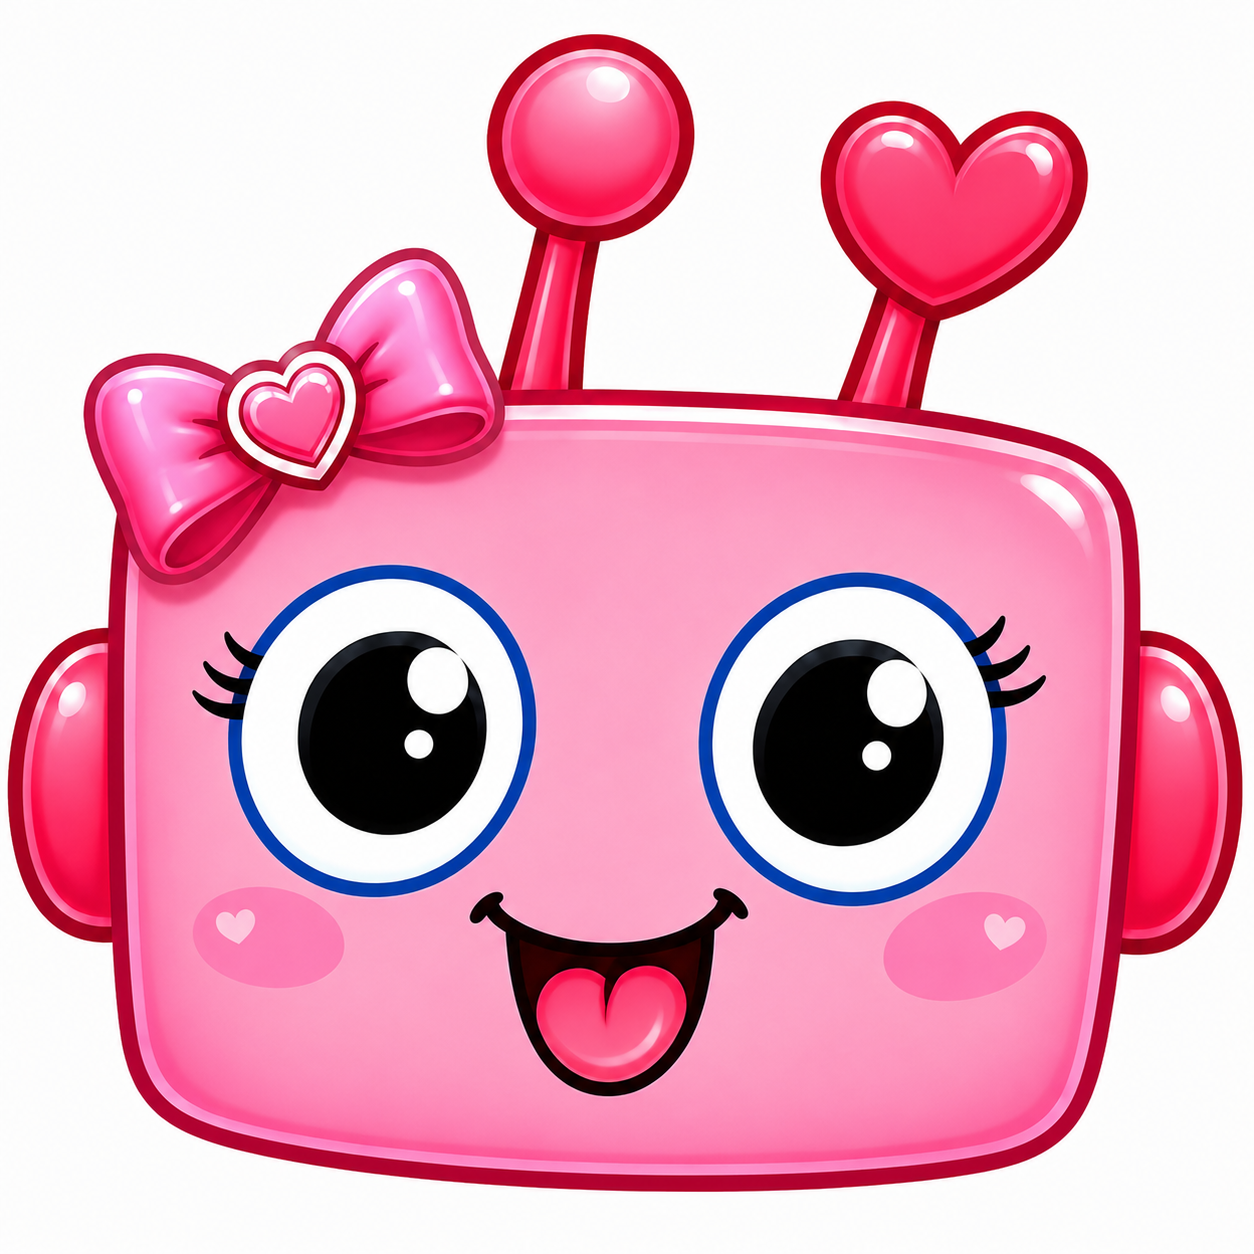
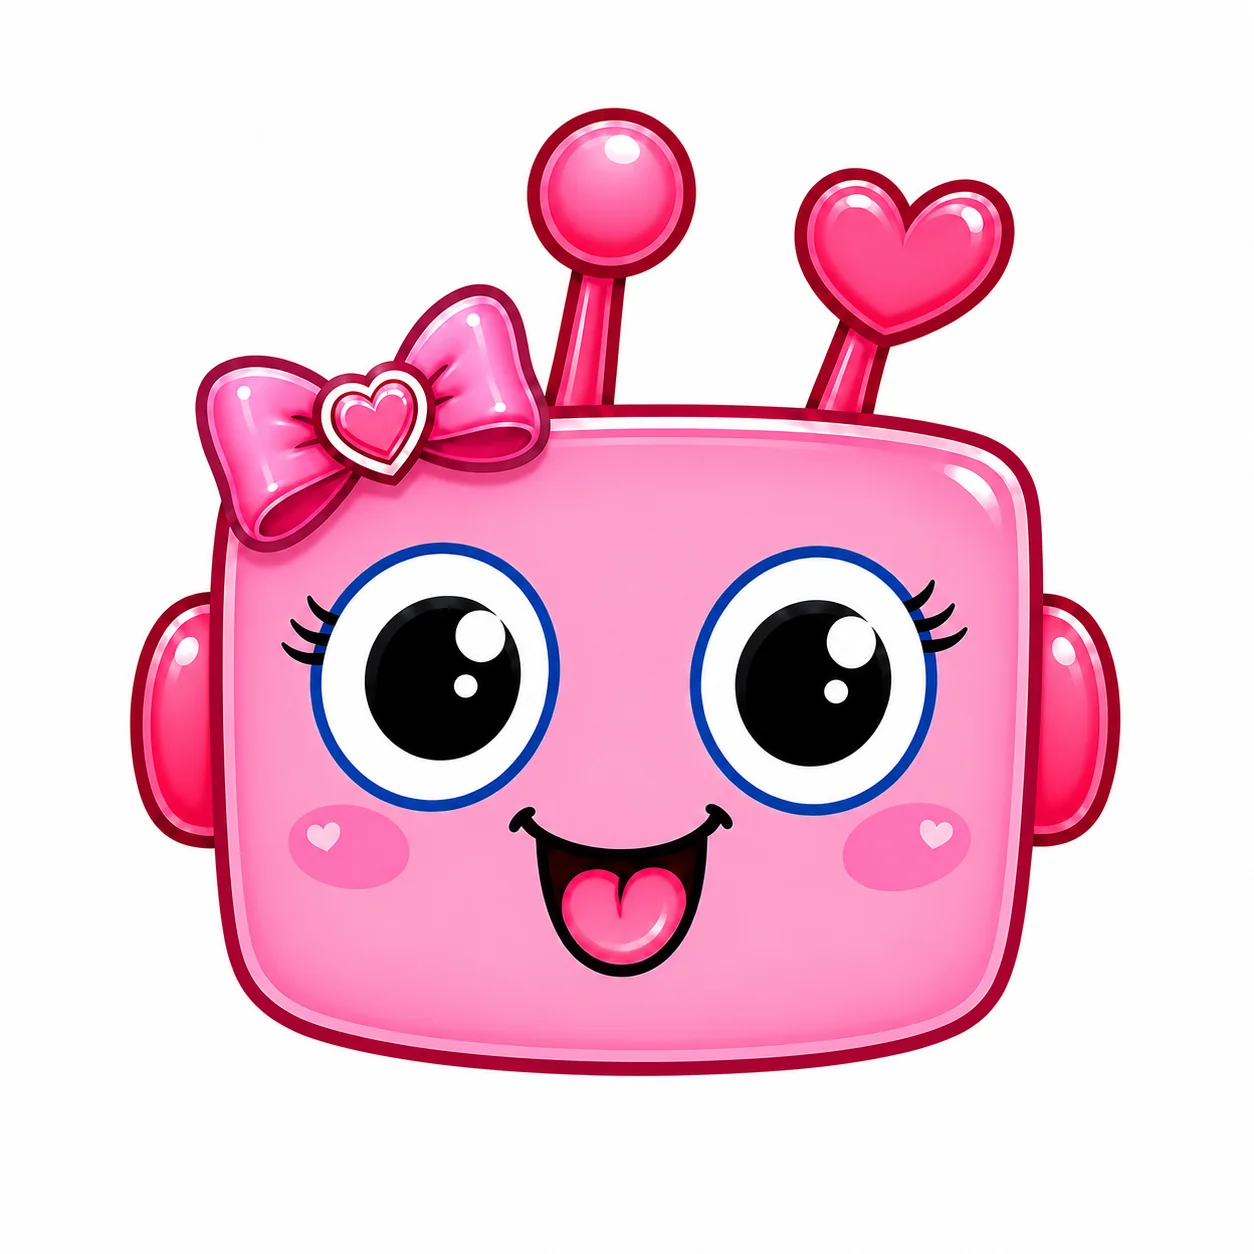
cambio imagenes a webp
se actualizaron avatar, marca formato, avatar por rol y genero

diff --git a/resources/js/Pages/Pacientes.vue b/resources/js/Pages/Pacientes.vue
@@ -1,152 +1,210 @@
 <script setup>
-import { Head, usePage, useForm, router } from '@inertiajs/vue3'
-import { ref } from 'vue'
-import PacienteForm from '@/Components/PacienteForm.vue'
-import ExpedienteModal from '@/Components/ExpedienteModal.vue'
-import HistorialModal from '@/Components/HistorialModal.vue'
+import { Head, usePage, useForm, router } from "@inertiajs/vue3";
+import { ref } from "vue";
+import PacienteForm from "@/Components/PacienteForm.vue";
+import ExpedienteModal from "@/Components/ExpedienteModal.vue";
+import HistorialModal from "@/Components/HistorialModal.vue";
 
-const { props } = usePage()
-const pacientes = props.pacientes
+const { props } = usePage();
+const pacientes = props.pacientes;
 
-const isOpen = ref(false)
-const selectedPaciente = ref(null)
+const isOpen = ref(false);
+const selectedPaciente = ref(null);
 
 const form = useForm({
-    nombre: '',
-    fecha_nacimiento: '',
-    telefono: '',
-    direccion: '',
-    genero: '',
-    encargado_id: '',
-})
+    nombre: "",
+    fecha_nacimiento: "",
+    telefono: "",
+    direccion: "",
+    genero: "",
+    encargado_id: "",
+});
 
 function openModal(paciente) {
-    selectedPaciente.value = paciente
-    form.nombre = paciente.nombre
-    form.fecha_nacimiento = paciente.fecha_nacimiento
-    form.telefono = paciente.telefono
-    form.direccion = paciente.direccion
-    form.genero = paciente.genero
-    form.encargado_id = paciente.encargados?.[0]?.id || ''
-    isOpen.value = true
+    selectedPaciente.value = paciente;
+    form.nombre = paciente.nombre;
+    form.fecha_nacimiento = paciente.fecha_nacimiento;
+    form.telefono = paciente.telefono;
+    form.direccion = paciente.direccion;
+    form.genero = paciente.genero;
+    form.encargado_id = paciente.encargados?.[0]?.id || "";
+    isOpen.value = true;
 }
 
 function closeModal() {
-    isOpen.value = false
+    isOpen.value = false;
 }
 
 function saveChanges() {
     if (selectedPaciente.value) {
-        form.put(route('pacientes.update', selectedPaciente.value.id), {
+        form.put(route("pacientes.update", selectedPaciente.value.id), {
             onSuccess: () => {
-                isOpen.value = false
-                router.visit(route('pacientes.index'), { only: ['pacientes'] })
-            }
-        })
+                isOpen.value = false;
+                router.visit(route("pacientes.index"), { only: ["pacientes"] });
+            },
+        });
     } else {
-        form.post(route('pacientes.store'), {
+        form.post(route("pacientes.store"), {
             onSuccess: () => {
-                isOpen.value = false
-                router.visit(route('pacientes.index'), { only: ['pacientes'] })
-            }
-        })
+                isOpen.value = false;
+                router.visit(route("pacientes.index"), { only: ["pacientes"] });
+            },
+        });
     }
 }
 
 function deletePaciente(paciente) {
     if (confirm(`¿Seguro que deseas eliminar a ${paciente.nombre}?`)) {
-        form.delete(route('pacientes.destroy', paciente.id), {
+        form.delete(route("pacientes.destroy", paciente.id), {
             onSuccess: () => {
-                router.visit(route('pacientes.index'), { only: ['pacientes'] })
-            }
-        })
+                router.visit(route("pacientes.index"), { only: ["pacientes"] });
+            },
+        });
     }
 }
 
 function newPaciente() {
-    selectedPaciente.value = null
-    form.reset()
-    isOpen.value = true
+    selectedPaciente.value = null;
+    form.reset();
+    isOpen.value = true;
 }
 
-const showExpediente = ref(false)
+const showExpediente = ref(false);
 function openExpediente(paciente) {
-    selectedPaciente.value = paciente
-    showExpediente.value = true
+    selectedPaciente.value = paciente;
+    showExpediente.value = true;
 }
 function closeExpediente() {
-    showExpediente.value = false
-    selectedPaciente.value = null
+    showExpediente.value = false;
+    selectedPaciente.value = null;
 }
 
-const showHistorial = ref(false)
+const showHistorial = ref(false);
 function openHistorial(paciente) {
-    selectedPaciente.value = paciente
-    showHistorial.value = true
+    selectedPaciente.value = paciente;
+    showHistorial.value = true;
 }
 function closeHistorial() {
-    showHistorial.value = false
+    showHistorial.value = false;
 }
 </script>
 
 <template>
-
     <Head title="Gestión de Pacientes" />
     <div class="p-8 max-w-7xl mx-auto">
-        <h2 class="text-2xl font-bold text-caine-azul mb-6">Gestión de Pacientes</h2>
+        <h2 class="text-2xl font-bold text-caine-azul mb-6">
+            Gestión de Pacientes
+        </h2>
 
         <!-- Botón para crear nuevo paciente -->
-        <div class="mb-6 flex justify-end" v-if="$page.props.auth.user.permissions.includes('gestionar pacientes')">
-            <button class="bg-caine-celeste text-white px-6 py-3 rounded-lg font-semibold shadow hover:scale-105"
-                @click="newPaciente">
+        <div
+            class="mb-6 flex justify-end"
+            v-if="
+                $page.props.auth.user.permissions.includes(
+                    'gestionar pacientes'
+                )
+            "
+        >
+            <button
+                class="bg-caine-celeste text-white px-6 py-3 rounded-lg font-semibold shadow hover:scale-105"
+                @click="newPaciente"
+            >
                 + Registrar Paciente
             </button>
         </div>
 
         <!-- Grid estilo Contact Cards -->
         <div class="grid grid-cols-1 gap-6 sm:grid-cols-2 lg:grid-cols-3">
-            <div v-for="paciente in pacientes" :key="paciente.id"
-                class="bg-white shadow rounded-lg overflow-hidden flex flex-col items-center text-center">
-
+            <div
+                v-for="paciente in pacientes"
+                :key="paciente.id"
+                class="bg-white shadow rounded-lg overflow-hidden flex flex-col items-center text-center"
+            >
                 <!-- Avatar -->
                 <div class="mt-6">
-                    <img :src="`https://ui-avatars.com/api/?name=${paciente.nombre}&background=random&size=128`"
-                        alt="Avatar" class="h-20 w-20 rounded-full mx-auto" />
+                    <img
+                        :src="
+                            paciente.genero === 'femenino'
+                                ? '/images/Femenino.webp'
+                                : paciente.genero === 'masculino'
+                                ? '/images/Masculino.webp'
+                                : '/images/avatar.webp'
+                        "
+                        alt="Avatar"
+                        class="h-20 w-20 rounded-full mx-auto"
+                    />
                 </div>
 
                 <!-- Nombre y expediente -->
                 <div class="mt-4">
-                    <h3 class="text-lg font-semibold text-gray-900">{{ paciente.nombre }}</h3>
-                    <p class="text-sm text-gray-500">Expediente: {{ paciente.expediente?.id || 'No asignado' }}</p>
-                    <p class="text-sm text-gray-500">Teléfono: {{ paciente.telefono }}</p>
-                    <p class="text-sm text-gray-500">Dirección: {{ paciente.direccion }}</p>
-                    <p class="text-sm text-gray-500">Género: {{ paciente.genero }}</p>
-                    <p class="text-sm text-gray-500">Encargado: {{ paciente.encargados?.[0]?.nombre || 'No asignado' }}
+                    <h3 class="text-lg font-semibold text-gray-900">
+                        {{ paciente.nombre }}
+                    </h3>
+                    <p class="text-sm text-gray-500">
+                        Expediente:
+                        {{ paciente.expediente?.id || "No asignado" }}
+                    </p>
+                    <p class="text-sm text-gray-500">
+                        Teléfono: {{ paciente.telefono }}
+                    </p>
+                    <p class="text-sm text-gray-500">
+                        Dirección: {{ paciente.direccion }}
+                    </p>
+                    <p class="text-sm text-gray-500">
+                        Género: {{ paciente.genero }}
+                    </p>
+                    <p class="text-sm text-gray-500">
+                        Encargado:
+                        {{ paciente.encargados?.[0]?.nombre || "No asignado" }}
                     </p>
                 </div>
 
                 <!-- Botones de acciones -->
-                <div class="mt-6 grid grid-cols-2 divide-x divide-gray-200 border-t border-gray-200 w-full">
-                    <button v-if="$page.props.auth.user.permissions.includes('gestionar pacientes')"
+                <div
+                    class="mt-6 grid grid-cols-2 divide-x divide-gray-200 border-t border-gray-200 w-full"
+                >
+                    <button
+                        v-if="
+                            $page.props.auth.user.permissions.includes(
+                                'gestionar pacientes'
+                            )
+                        "
                         class="py-3 text-sm font-medium text-caine-celeste hover:bg-gray-50"
-                        @click="openModal(paciente)">
+                        @click="openModal(paciente)"
+                    >
                         Editar
                     </button>
-                    <button v-if="$page.props.auth.user.permissions.includes('gestionar pacientes')"
+                    <button
+                        v-if="
+                            $page.props.auth.user.permissions.includes(
+                                'gestionar pacientes'
+                            )
+                        "
                         class="py-3 text-sm font-medium text-caine-error hover:bg-gray-50"
-                        @click="deletePaciente(paciente)">
+                        @click="deletePaciente(paciente)"
+                    >
                         Eliminar
                     </button>
                 </div>
 
-                <div class="grid grid-cols-2 gap-2 p-4 w-full border-t"
-                    v-if="$page.props.auth.user.permissions.includes('gestionar pacientes')">
-                    <button class="bg-caine-azul text-white py-2 rounded-md text-sm hover:bg-caine-morado"
-                        @click="openExpediente(paciente)">
+                <div
+                    class="grid grid-cols-2 gap-2 p-4 w-full border-t"
+                    v-if="
+                        $page.props.auth.user.permissions.includes(
+                            'gestionar pacientes'
+                        )
+                    "
+                >
+                    <button
+                        class="bg-caine-azul text-white py-2 rounded-md text-sm hover:bg-caine-morado"
+                        @click="openExpediente(paciente)"
+                    >
                         Expediente
                     </button>
-                    <button class="bg-caine-verde text-white py-2 rounded-md text-sm hover:bg-caine-azul"
-                        @click="openHistorial(paciente)">
+                    <button
+                        class="bg-caine-verde text-white py-2 rounded-md text-sm hover:bg-caine-azul"
+                        @click="openHistorial(paciente)"
+                    >
                         Historial
                     </button>
                 </div>
@@ -154,16 +212,30 @@ function closeHistorial() {
         </div>
 
         <!-- Modales -->
-        <PacienteForm v-if="isOpen" :paciente="selectedPaciente" :form="form" @close="closeModal" @save="saveChanges" />
-        <ExpedienteModal v-if="showExpediente" :expediente="selectedPaciente?.expediente" @close="closeExpediente" />
-        <HistorialModal v-if="showHistorial" :paciente="selectedPaciente" @close="closeHistorial" />
+        <PacienteForm
+            v-if="isOpen"
+            :paciente="selectedPaciente"
+            :form="form"
+            @close="closeModal"
+            @save="saveChanges"
+        />
+        <ExpedienteModal
+            v-if="showExpediente"
+            :expediente="selectedPaciente?.expediente"
+            @close="closeExpediente"
+        />
+        <HistorialModal
+            v-if="showHistorial"
+            :paciente="selectedPaciente"
+            @close="closeHistorial"
+        />
     </div>
 </template>
 
 <script>
-import AuthenticatedLayout from '@/Layouts/AuthenticatedLayout.vue'
+import AuthenticatedLayout from "@/Layouts/AuthenticatedLayout.vue";
 
 export default {
-    layout: AuthenticatedLayout
-}
+    layout: AuthenticatedLayout,
+};
 </script>

diff --git a/resources/js/Pages/Usuarios.vue b/resources/js/Pages/Usuarios.vue
@@ -104,10 +104,23 @@ const capitalize = (str) => str.charAt(0).toUpperCase() + str.slice(1)
         class="bg-white shadow rounded-lg overflow-hidden flex flex-col items-center text-center">
         
         <!-- Avatar -->
-        <div class="mt-6">
-          <img :src="`https://ui-avatars.com/api/?name=${usuario.terapeuta?.nombre || usuario.encargado?.nombre || usuario.administrativo?.nombre || usuario.email}&background=random&size=128`"
-            alt="Avatar" class="h-20 w-20 rounded-full mx-auto" />
-        </div>
+                <div class="mt-6">
+                    <img
+                        :src="
+                            usuario.roles.includes('terapeuta')
+                                ? '/images/Terapeuta.webp'
+                                : usuario.roles.includes('administrador')
+                                ? '/images/Admin.webp'
+                                : usuario.roles.includes('coordinador')
+                                ? '/images/Coordinador.webp'
+                                : usuario.roles.includes('encargado')
+                                ? '/images/Madre.webp'
+                                : '/images/avatar.webp'
+                        "
+                        alt="Avatar"
+                        class="h-20 w-20 rounded-full mx-auto"
+                    />
+                </div>
 
         <!-- Nombre y correo -->
         <div class="mt-4">
